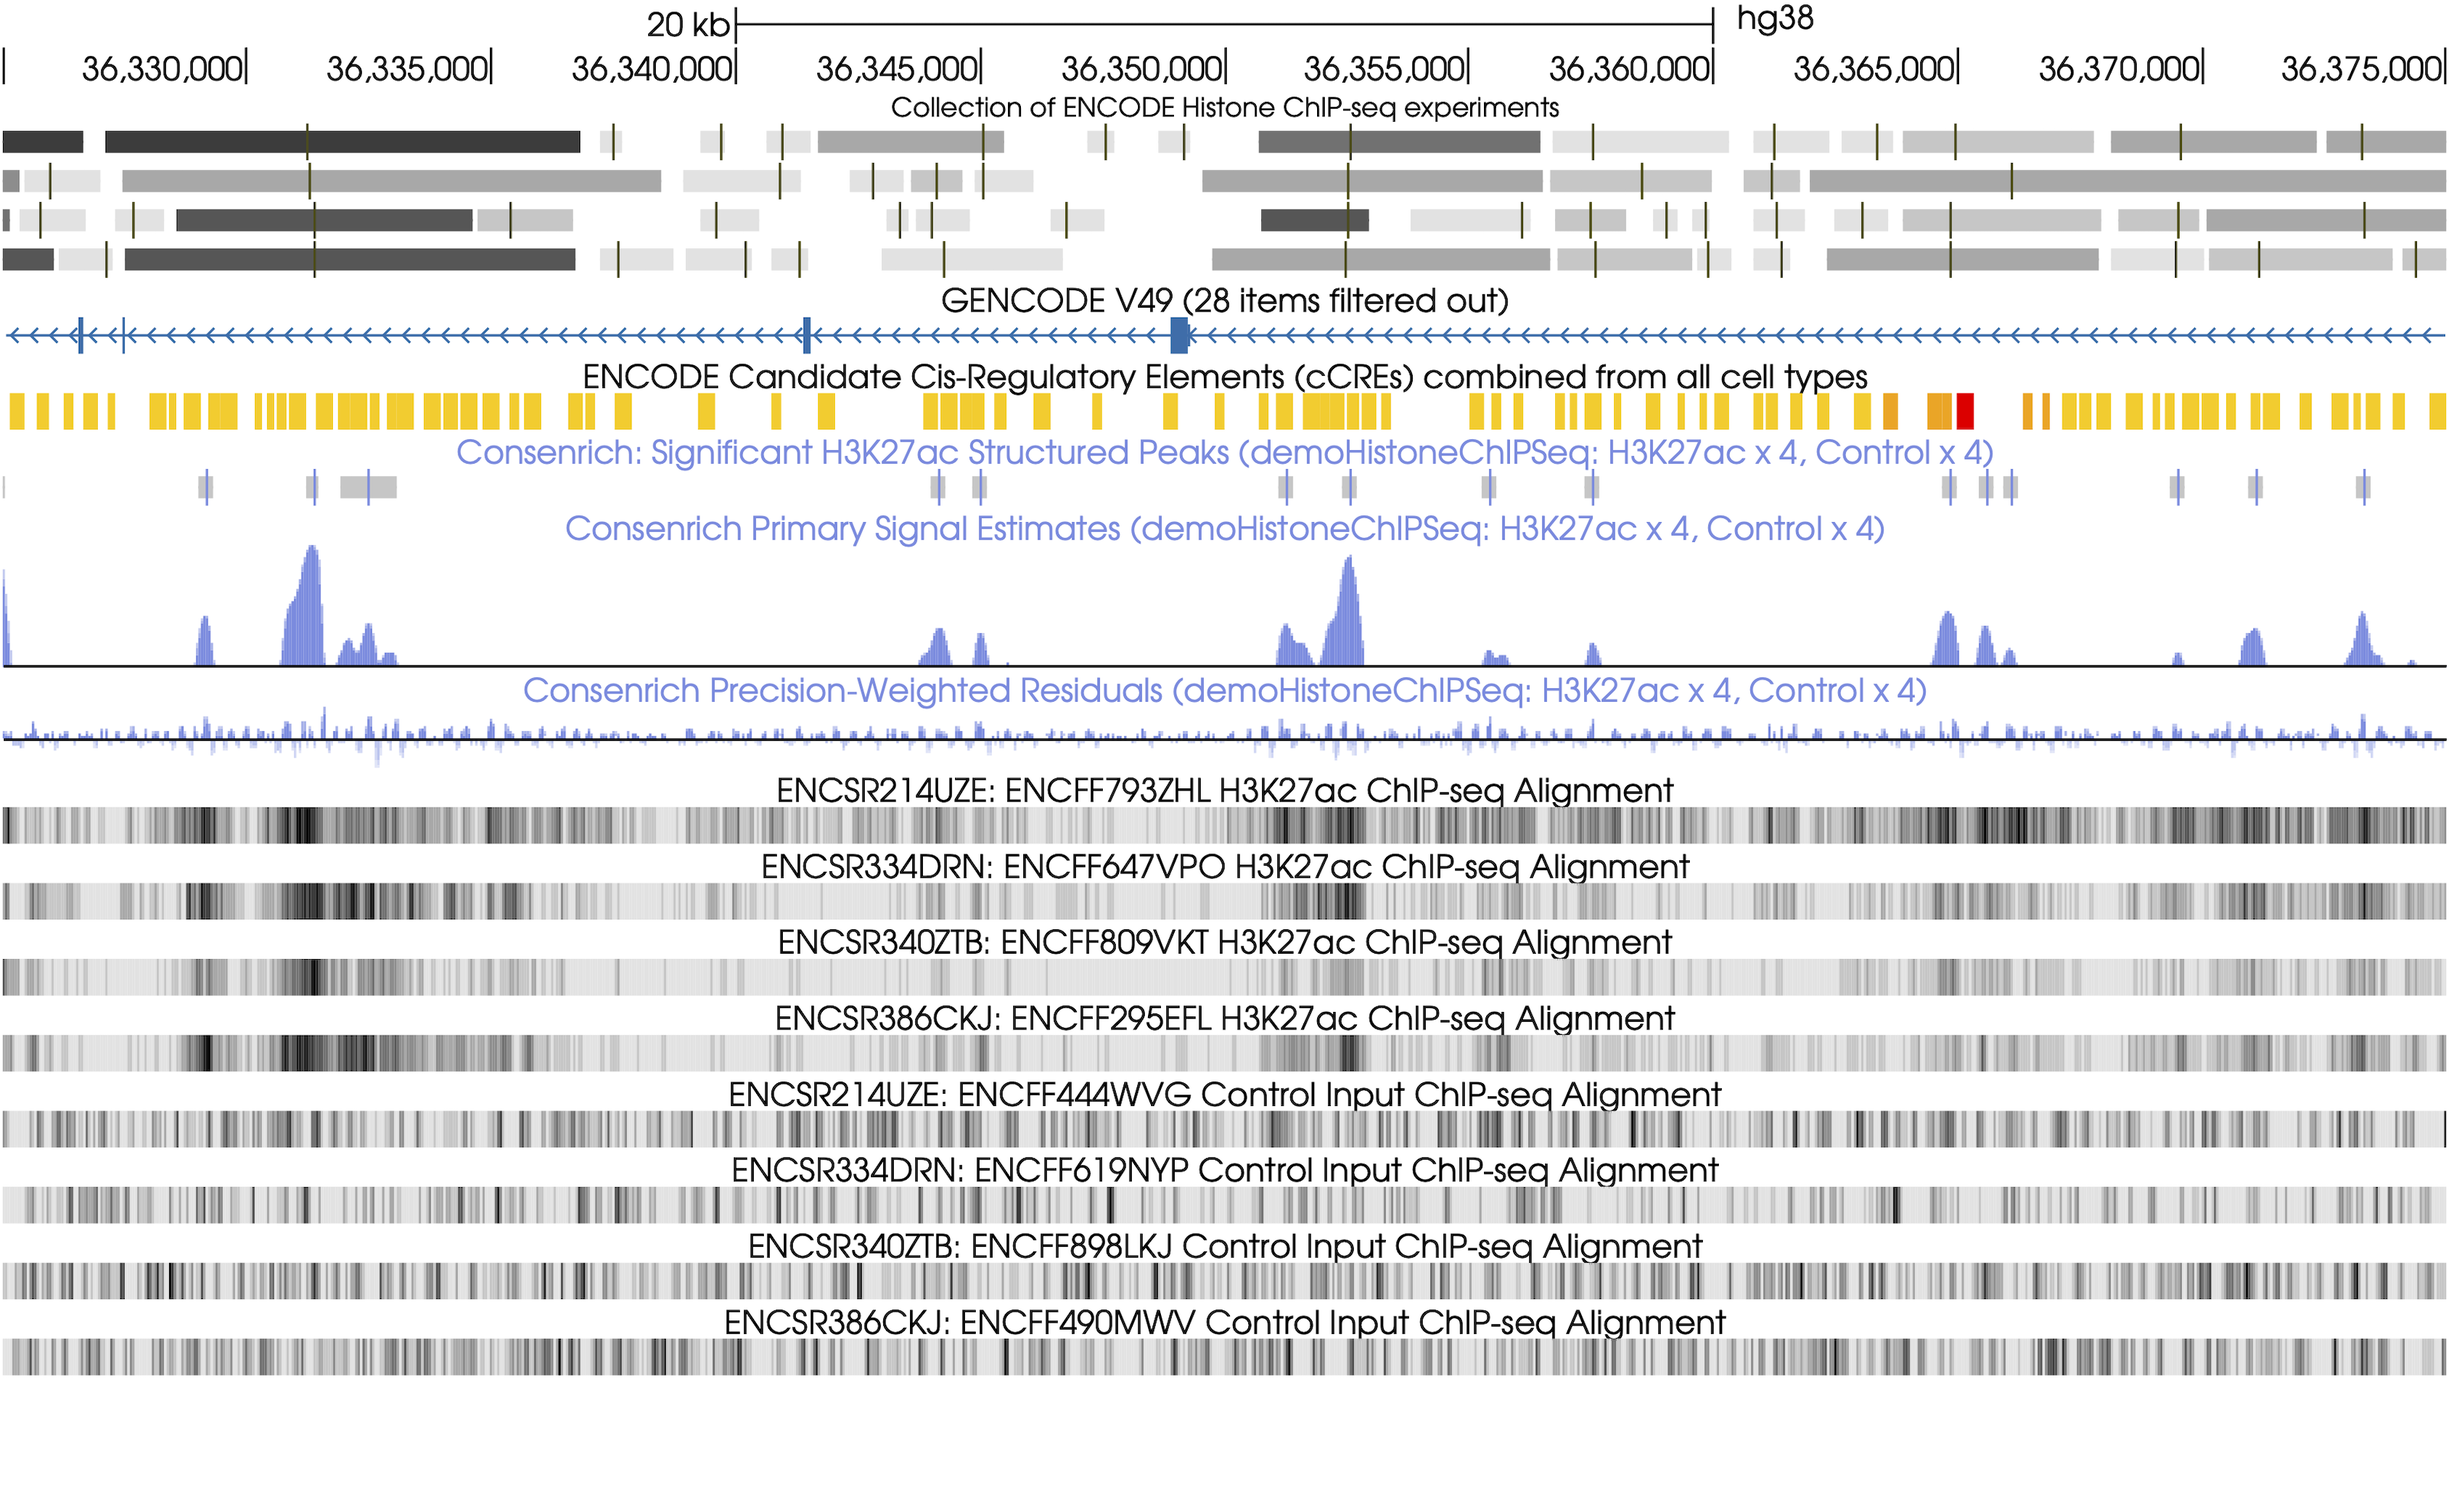
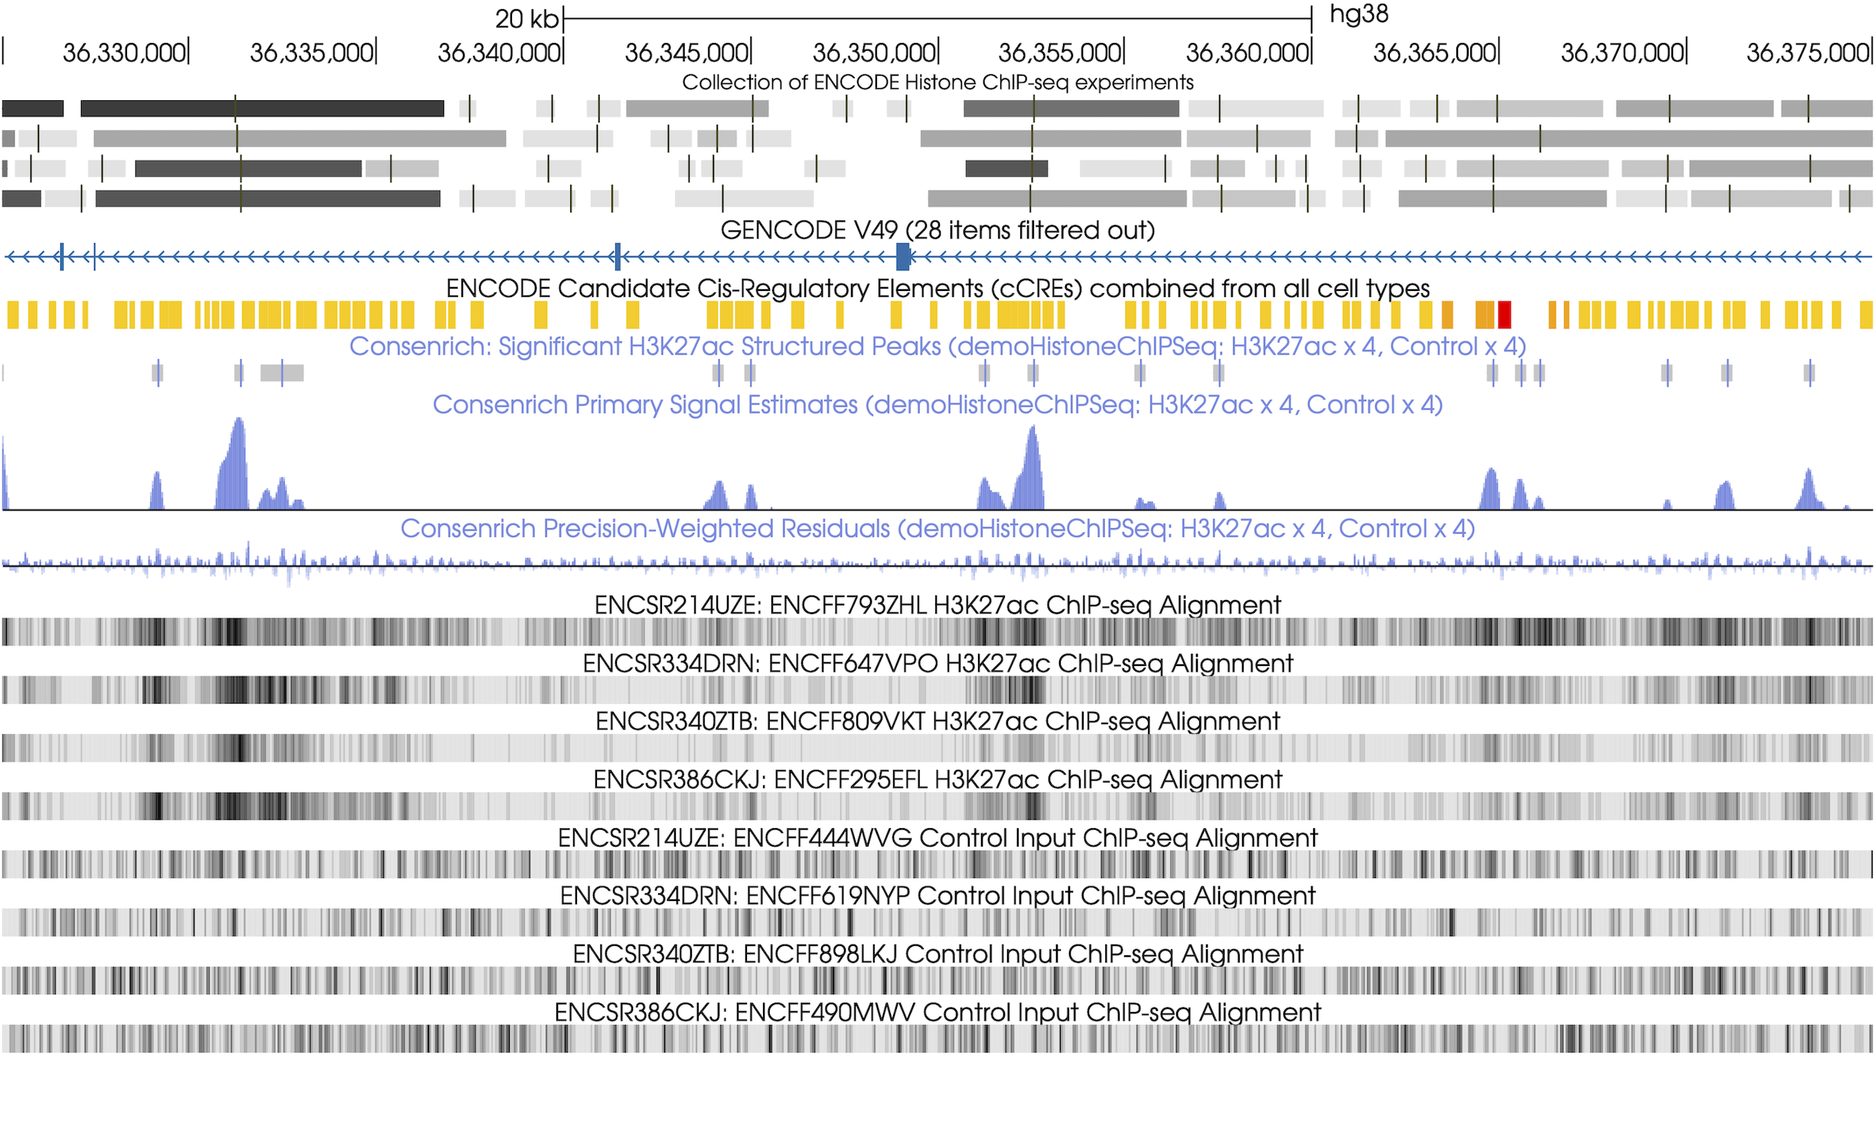
switch snapshots to UCSC browser

diff --git a/docs/source/examples.rst b/docs/source/examples.rst
@@ -194,7 +194,7 @@ Environment
 
 - MacBook MX313LL/A (arm64)
 - Python `3.12.9`
-- Consenrich `v0.7.0b1`
+- Consenrich `v0.7.1b1`
 - `HTSlib (Samtools) <https://www.htslib.org/>`_ 1.22.1
 - `Bedtools <https://bedtools.readthedocs.io/en/latest/>`_ 2.31.1
 
@@ -265,7 +265,7 @@ Run Consenrich
 Results
 ''''''''''''''''''''''''''''
 
-Consenrich outputs are visualized over `KRAS`
+Consenrich outputs are visualized over a 50kb genomic region overlapping the transcription start site of `KRAS`.
 
 
 .. image:: ../benchmarks/atac20/images/atac20BenchmarkIGVSpib25KB.png
@@ -273,18 +273,15 @@ Consenrich outputs are visualized over `KRAS`
     :width: 800px
     :align: left
 
-(*Todo: switch to UCSC genome browser*)
-
 **Evaluating Structured Peak Results: cCRE Overlaps**
 
 We measure overlap between the Consenrich-detected regions and previously-identified candidate regulatory elements (`ENCODE4 GRCh38 cCREs <https://screen.wenglab.org/downloads>`_).
-
-Note that the ENCODE cCREs are not specific to our lymphoblastoid input dataset (`atac20`) and strict concordance is not expected.
+Note that the ENCODE cCREs are not specific to our lymphoblastoid input dataset (`atac20`) and strict concordance is not expected. Nonetheless, given the breadth of cell types and tissues surveyed in ENCODE, a substantial overlap between Consenrich-detected structured peaks and cCREs is desirable.
 
 * We first count:
 
-  - The total number of Consenrich-detected structured peaks
-  - The number of unique Consenrich-detected structured peaks sharing at least a :math:`25\%` *reciprocal* overlap with an ENCODE4 cCRE
+  - The total number of Consenrich-detected structured peaks (184,449)
+  - The number of *unique* Consenrich-detected structured peaks sharing at least a :math:`25\%` *reciprocal* overlap with an ENCODE4 cCRE (163,511)
 
   .. code-block:: console
 
@@ -297,7 +294,7 @@ Note that the ENCODE cCREs are not specific to our lymphoblastoid input dataset 
 
 * We also evaluate overlaps compared to a null baseline:
 
-  |    *Controlling for feature size and chromosome placement, how many cCRE-hits could we expect by randomly selecting the same number of peaks?*
+  |    *Controlling for feature size and chromosome placement, how many cCRE overlaps would we expect by randomly selecting 183,449 peaks?*
 
   We invoke `bedtools shuffle <https://bedtools.readthedocs.io/en/latest/content/tools/shuffle.html>`_,
 
@@ -318,15 +315,15 @@ We find a substantial overlap between Consenrich-detected regions and cCREs, wit
 +------------------------------------------------------------------------------------------+----------------------------------------------+
 | Feature                                                                                  | Value                                        |
 +==========================================================================================+==============================================+
-| Consenrich: Total structured peaks (α=0.05)                                              | 192,274                                      |
+| Consenrich: Total structured peaks (α=0.05)                                              | 183,449                                      |
 +------------------------------------------------------------------------------------------+----------------------------------------------+
-| Consenrich: Distinct cCRE overlaps*                                                      | 169,459                                      |
+| Consenrich: Distinct cCRE overlaps*                                                      | 163,511                                      |
 +------------------------------------------------------------------------------------------+----------------------------------------------+
-| Consenrich: Percent overlapping                                                          | 88.1%                                        |
+| Consenrich: Percent overlapping                                                          | **89.1%**                                    |
 +------------------------------------------------------------------------------------------+----------------------------------------------+
-| Random (``shuffle``): Distinct cCRE overlaps*                                            | μ ≈ 57,087.8,  σ ≈ 197.5                     |
+| Random (``shuffle``): Distinct cCRE overlaps*                                            | μ ≈ 54,806.6,  σ ≈ 190.6                     |
 +------------------------------------------------------------------------------------------+----------------------------------------------+
-| Random (``shuffle``): Percent overlapping                                                | ≈ 29.6%                                      |
+| Random (``shuffle``): Percent overlapping                                                | ≈ 29.8%                                      |
 +------------------------------------------------------------------------------------------+----------------------------------------------+
 
 :math:`\ast`: ``bedtools intersect -f 0.25 -r -u``
@@ -351,8 +348,12 @@ Note that the repeated sampling of memory every 0.1 seconds during profiling int
 ChIP-seq: Broad Histone Marks
 """""""""""""""""""""""""""""""""""""""""""""
 
-- Five mucosal tissue donors, each with H3K36me3/control alignment files from ENCODE.
-- Single-end, mixed-length reads (36, 76)
+In this example, we look for *dual-marked H3K36me3/H3K9me3 enrichments*
+
+As input data, we use per-mark ChIP-seq samples from the `ENTEx Project: Four Reference Epigenomes <http://entex.encodeproject.org/>`_.
+
+- Input data (`entexFourH3K36me3`): :math:`m=4` H3K36me3 ChIP-seq BAM files + matched controls from colonic mucosal tissue of four donors (ENCODE)
+
 
 These samples vary in quality, with 4/5 flagged by ENCODE for low read length and/or insufficient depth, making for a challenging but viable multi-sample analysis setting.
 
@@ -361,7 +362,7 @@ Environment
 
 - MacBook MX313LL/A (arm64)
 - Python 3.12.9
-- Consenrich v0.7.0b1
+- Consenrich v0.7.1b1
 - `HTSlib (Samtools) <https://www.htslib.org/>`_ 1.21
 - `Bedtools <https://bedtools.readthedocs.io/en/latest/>`_ 2.31.1
 
@@ -384,74 +385,91 @@ Names and versions of packages that are relevant to computational performance. T
 Configuration
 ''''''''''''''''''''''''''''
 
-We save the following YAML configuration as ``H3K36me3Experiment.yaml``.
-
-.. code-block:: yaml
-
-  experimentName: H3K36me3Experiment
-  genomeParams.name: hg38
-  genomeParams.excludeChroms: ['chrY']
-  genomeParams.excludeForNorm: ['chrX','chrY']
-
-  inputParams.bamFiles: [ENCFF978XNV.bam,
-    ENCFF064FYS.bam, # ENCODE flag: 'Insufficient read depth'
-    ENCFF948RWW.bam, # ENCODE flag: 'Insufficient read depth, Low read length'
-    ENCFF553DUQ.bam, # ENCODE flag: 'Insufficient read depth, Low read length'
-    ENCFF686CAN.bam, # ENCODE flag: 'Insufficient read depth, Low read length'
-  ]
-
-  inputParams.bamFilesControl: [ENCFF212KOM.bam,
-    ENCFF556KHR.bam,
-    ENCFF165GHU.bam,
-    ENCFF552XYB.bam,
-    ENCFF141HNE.bam
-  ]
-
-  matchingParams.templateNames: [haar, db2]
+We run Consenrich separately for H3K36me3 and H3K9me3.
 
 
-* Note, for broader marks, consider using a symmetric or near-symmetric template and/or a greater cascade level (e.g., `templateNames: [haar, sym4]`, `cascadeLevels: [2,3]``) to better capture extended enrichment patterns.
+* ``entexFourH3K36me3.yaml``.
 
-  * Increasing `mergeGapBP` can also be beneficial to avoid over-segmentation of broad domains.
+  .. code-block:: yaml
+
+    experimentName: entexFourH3K36me3
+    genomeParams.name: hg38
+    genomeParams.excludeChroms: [chrY]
+    genomeParams.excludeForNorm: [chrX, chrY]
+
+    inputParams.bamFiles: [ENCFF441SHP.bam,
+     ENCFF450ORQ.bam,
+     ENCFF903UTS.bam,
+     ENCFF790HIV.bam
+     ]
+
+    inputParams.bamFilesControl: [ENCFF794QJK.bam,
+     ENCFF831MFQ.bam,
+     ENCFF660HBS.bam,
+     ENCFF430OFG.bam
+    ]
+
+    matchingParams.templateNames: [haar, db2]
+    matchingParams.cascadeLevels: [3] # broad marks: longer matching template
+    matchingParams.mergeGapBP: 250    # broad marks: larger merging window 
+
+
+* ``entexFourH3K9me3.yaml``.
+
+  .. code-block:: yaml
+
+    experimentName: entexFourH3K9me3
+    genomeParams.name: hg38
+    genomeParams.excludeChroms: [chrY]
+    genomeParams.excludeForNorm: [chrX, chrY]
+
+    inputParams.bamFiles: [ENCFF887THR.bam,
+      ENCFF894WAK.bam,
+      ENCFF337ZUU.bam,
+      ENCFF775OLD.bam
+    ]
+
+    inputParams.bamFilesControl: [ENCFF794QJK.bam,
+     ENCFF831MFQ.bam,
+     ENCFF660HBS.bam,
+     ENCFF430OFG.bam
+    ]
+
+    observationParams.useALV: true # recommended for repressive marks
+    matchingParams.templateNames: [haar, db2]
+    matchingParams.cascadeLevels: [3]
+    matchingParams.mergeGapBP: 250
+
 
 
 Run Consenrich
 ''''''''''''''''''''''''''''
 
+Significant matches/peaks for each mark are intersected to identify dual-marked regions.
+
 .. code-block:: console
 
-  % consenrich --config H3K36me3Experiment.yaml --verbose
+  % consenrich --config entexFourH3K36me3.yaml --verbose
+  % consenrich --config entexFourH3K9me3.yaml --verbose
+  % bedtools intersect \
+      -a consenrichOutput_entexFourH3K36me3_matches.mergedMatches.narrowPeak \
+      -b consenrichOutput_entexFourH3K9me3_matches.mergedMatches.narrowPeak \
+      -f 0.25 -r -u -sortout | cut -f 1-3 > Consenrich_StructuredPeaks_H3K9me3_AND_H3K36me3.bed
 
 
 Results
 ''''''''''''''''''''''''''''
 
-For a qualitative, biologically-motivated check, we evaluate results over `PRRC1` in light of `Figure 3A in (Andersson et al., 2009) <https://genome.cshlp.org/content/19/10/1732>`_: *H3K36me3 signal is overrepresented at internal exons with respect to succeeding introns.*
+Consistent with `previous studies <https://pmc.ncbi.nlm.nih.gov/search/?term=dual+H3K9me3+H3K36me3+%22zinc+finger%22&sort=relevance>`_, we observe a notable density of H3K9me3/H3K36me3 intersections in ZNF gene clusters.
 
-* Note that we are using colonic mucosal tissue samples, whereas Andersson et al. used CD4+ T cells. Nonetheless, PRRC1 is consistently expressed in colonic mucosa, and we can expect a loose concordance in H3K36me3 enrichment patterns.
+Each sample's alignment coverage tracks, and the corresponding Consenrich-generated outputs, are visualized over `ZNF615` below in the UCSC Genome Browser (20 kb).
 
-.. image:: ../benchmarks/H3K36me3/images/H3K36me3PRRC1.png
+.. image:: ../benchmarks/H3K36me3/images/Consenrich_ENTexFour_DualMark.png
     :alt: H3K36me3 Intron-Exon
     :width: 800px
     :align: left
 
-(*Todo: switch to UCSC genome browser*)
-
-* Near the transcription start site of `PRRC1`, we observe a transient H3K4me3 peak followed by a broad increase in H3K36me3 signal
-* Within `PRRC1`, the strongest H3K36me3 Consenrich-estimated signals appear at `GENCODE-annotated <https://www.gencodegenes.org/human/release_47.html>`_ exons > 1 followed by abrupt depletion.
-
-
-Runtime and Memory Profiling
-''''''''''''''''''''''''''''''''''
-
-Memory use was profiled with the package `memory-profiler <https://pypi.org/project/memory-profiler/>`_. See the plot below for RSS over time. Function calls are marked as notches.
-
-Note that the repeated sampling of memory every 0.1 seconds during profiling introduces some overhead that affects runtime.
-
-.. image:: ../benchmarks/H3K36me3/images/H3K36me3ExperimentMemoryPlot.png
-    :alt: Time vs. Memory Usage (`memory-profiler`)
-    :width: 800px
-    :align: center
+Peaks detected using `ENCODE's histone ChIP-seq pipeline <https://www.encodeproject.org/pipelines/ENCPL841HGV/>` for each experiment/mark are also displayed, prefixed by ``REF``. Experiment and/or file accessions for each resource are labelled.
 
 
 .. _tips:
